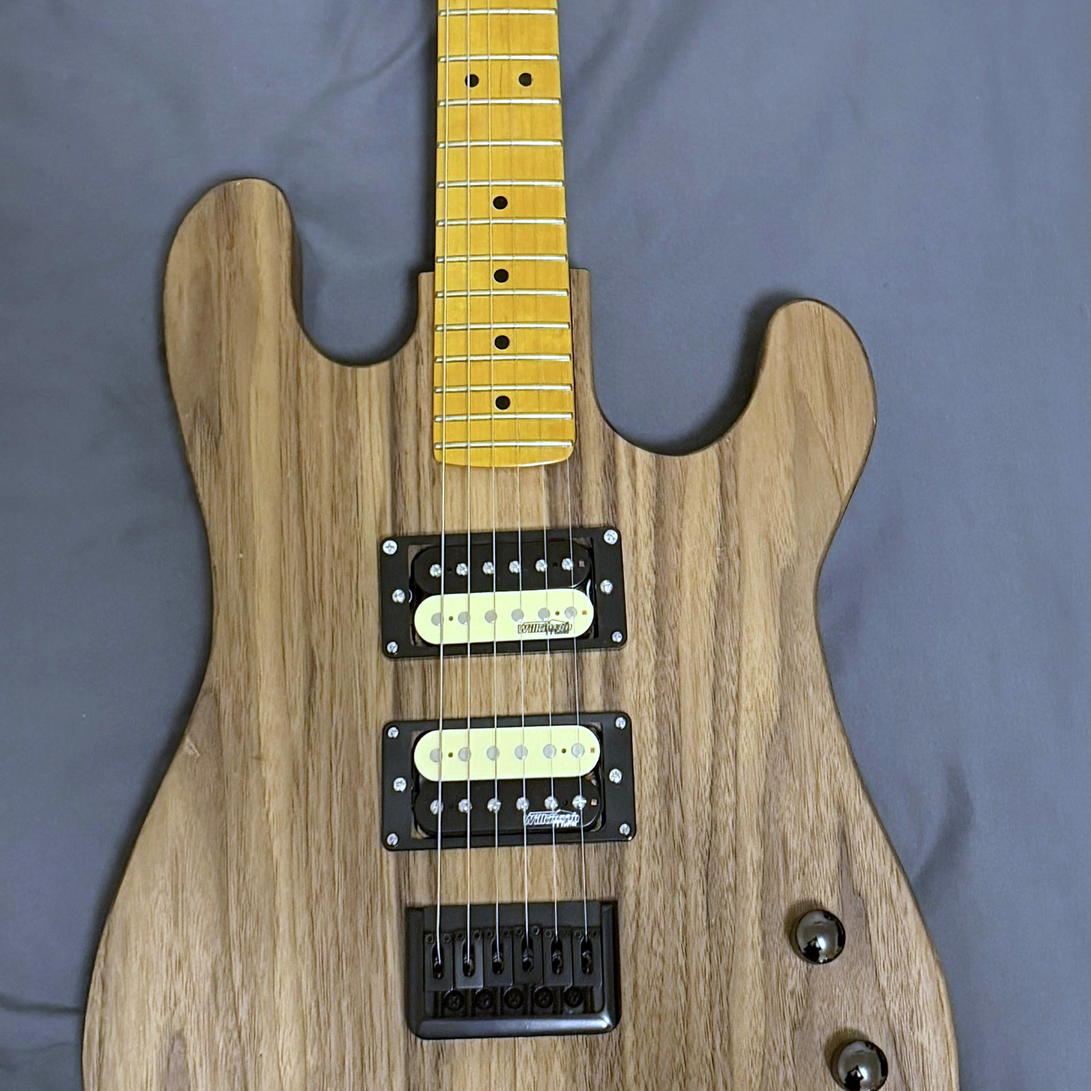
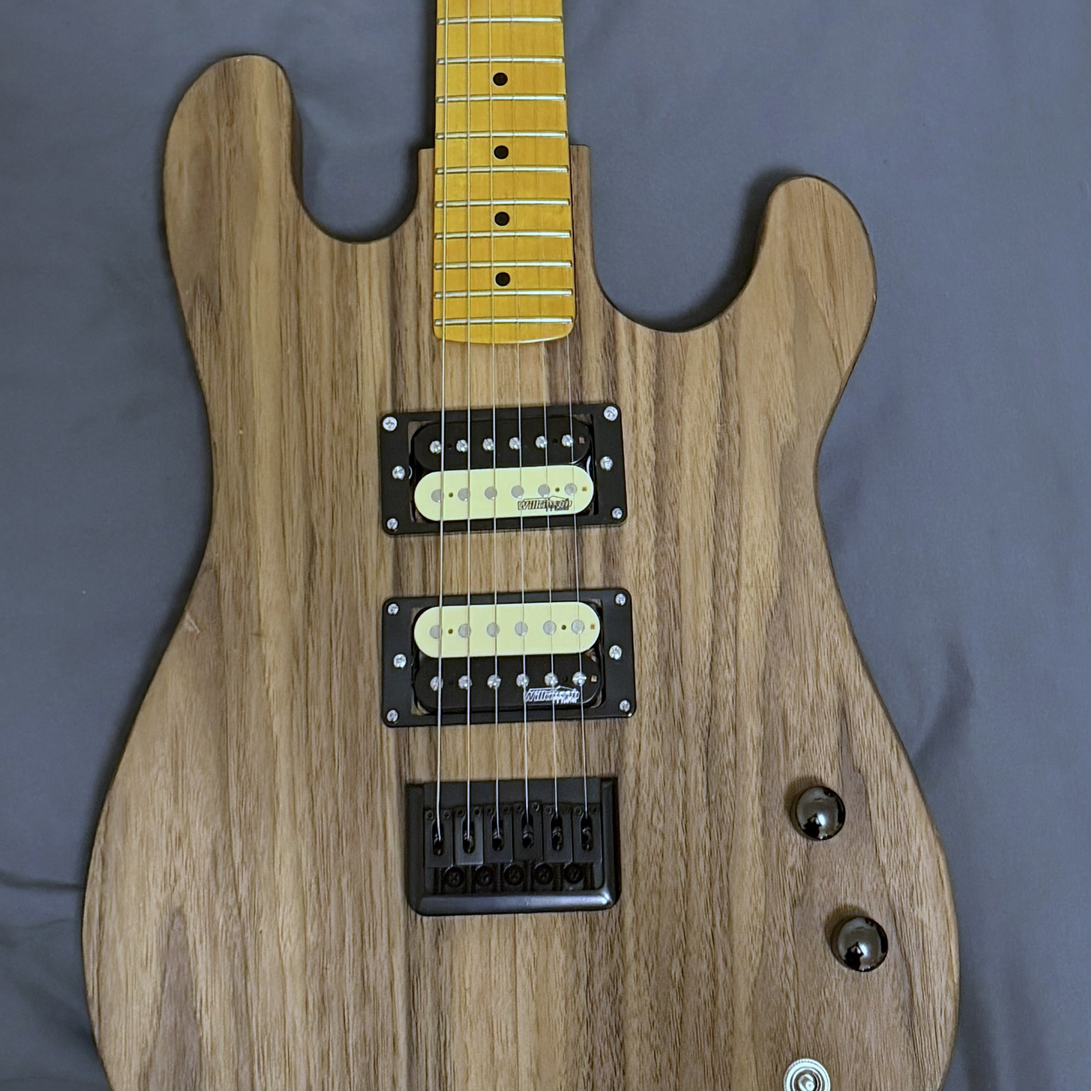
Updating power steering page

diff --git a/projects/motorsports.html b/projects/motorsports.html
@@ -41,57 +41,12 @@
         <h4>September 2025 - May 2026</h4>
         <img src="../portfolio_images/driverless.png" alt="Driverless actuation system" style="width: 250px">
         <br>
-        <img src="../portfolio_images/drawing.png" alt="Mechanical drawing" style="height: 100px">
 
-        <p>This year was the first year in the history of <a class="link" href="https://fsae.mit.edu/">MIT Motorsports</a>, MIT’s competitive Formula SAE (FSAE) team, where the racecar we designed and built from scratch was also designed to drive fully autonomously! As Responsible Engineer for Driverless Mechanisms, I led the design of our driverless power steering system.</p>
-        <p>I began by defining quantitative system requirements, including steering requirements of 12.6 Nm peak torque, 6.3 Nm nominal torque, and 200 deg/s steering rate; maximum mass of 2.04 kg; and other functional requirements. Due to packaging constraints, the full actuation system also needed to fit within 50 mm, or just under 2 inches. This constraint was one major consideration in motor sizing, as I'll describe later.</p>
+        <p>This was the first year in the history of <a class="link" href="https://fsae.mit.edu/">MIT Motorsports</a>, MIT’s competitive Formula SAE (FSAE) team, where the racecar we designed and built from scratch was also designed to drive fully autonomously! As Responsible Engineer for Driverless Mechanisms, I led the design of our driverless power steering system.</p>
+        <p>I began by defining quantitative system requirements, including steering requirements of 12.6 Nm peak torque, 6.3 Nm nominal torque, and 200 deg/s steering rate; maximum mass of 2 kg; and other functional requirements. I derived the steering requirements from telemetry data and measured static torque from our previous racecar, and worked with system interfaces such as EE and autonomous to size the motor to a 60W power limit. Due to packaging constraints, the full actuation system also needed to fit within 50 mm, or just under 2 inches.</p>
 
-        <div class="slideshow">
-
-            <div class="slide-counter">
-                <span class="current-slide">1</span> /
-                <span class="total-slides"></span>
-            </div>
-
-            <button class="prev">&#10094;</button>
-
-            <div class="slide active">
-                <img src="../images/guitar2.jpg">
-                <p class="slide-caption">Making the body of the guitar</p>
-            </div>
-
-            <div class="slide">
-                <img src="../images/guitar.jpg" alt="">
-                <p class="slide-caption">Adding layers of finish (wipe-on polyurethane)</p>
-            </div>
-
-            <div class="slide">
-                <img src="../images/guitar4.JPG" alt="">
-                <p class="slide-caption">Routing the pickups through the front...</p>
-            </div>
-
-            <button class="next">&#10095;</button>
-
-        </div>
-
-
-
-        <p> and evaluated multiple architectures through a formal design review process, designing a column-mounted motor and pulley system packaged within 2 inches and weighing 0.56 kg. Iterated the system through a full design cycle into fabrication, including custom welding jig design and machining.</p>
-        <p>Through this project I learned the rigor of engineering and the importance of research, justification, and communication within engineering, particularly in a team setting. In MIT Motorsports, we follow the full design process with design review and feedback, from setting design requirements to fabrication and testing. It’s through these rigorous design reviews that we receive feedback, communicate and collaborate with other subsystems, and improve on our designs.</p>
-
-        <hr>
-        <p>
-            <b>Skills</b>
-            <ul>
-                <li>Design/CAD: Siemens NX</li>
-                <li>PLM: Siemens Teamcenter</li>
-                <li>Machining and fabrication: manual mill, CNC mill (CAM, conversational programming), lathe, waterjet, 3d printing</li>
-            </ul>
-        </p>
-
-        <p>
-            Throughout the season, I also helped out with a few other tasks on different parts of the car.
-        </p>
+        <img src="../images/power_steering/designrequirements.png" style="width:550px">
+        <p>With my teammate Aleks, I researched and evaluated various power steering architectures on a number of factors including simplicity, risks, packaging, backlash, manufacturing difficulty, mass, and cost. We evaluated mounting locations and drive methods similarly, and ended up deciding on a rotary, column-based power steering design. I used the <a class="link" href="https://www.gates.com/content/dam/documents-library/catalogs/powergrip-gt3-drive-design-manual-en.pdf">Gates Belt Selection Manual</a> to select a timing belt, and did calculations to size the motor, gearbox, and pulley center-to-center distance.</p>
 
         <div class="slideshow">
 
@@ -103,23 +58,40 @@
             <button class="prev">&#10094;</button>
 
             <div class="slide active">
+                <img src="../images/power_steering/psassembly.png">
+                <p class="slide-caption">Power steering assembly</p>
+            </div>
+
+            <div class="slide">
+                <img src="../images/power_steering/weldingasm.PNG">
+                <p class="slide-caption">Welding jig and assembly</p>
+            </div>
+
+            <div class="slide">
                 <img src="../images/power_steering/spacers.PNG">
                 <p class="slide-caption">Steering rack spacers, machined conversationally on CNC mill</p>
             </div>
 
             <div class="slide">
                 <img src="../images/power_steering/turning.jpg" alt="">
-                <p class="slide-caption">Adding layers of finish (wipe-on polyurethane)</p>
-            </div>
-
-            <div class="slide">
-                <img src="../images/guitar4.JPG" alt="">
-                <p class="slide-caption">Routing the pickups through the front...</p>
+                <p class="slide-caption">Push rod inserts for suspension links, turned on lathe</p>
             </div>
 
             <button class="next">&#10095;</button>
 
         </div>
+
+        <p>The power steering system I designed uses a timing belt drive and steel pulleys mounted to the steering rack via a mounting plate, with the column pulley welded to the steering column shaft coupler. The assembly is driven by a Maxon BLDC motor with a 138:1 GR planetary gearbox, packages within 50 mm, weighs 0.56 kg, and meets the torque and speed functional requirements I set. It is now being put on the car, and will be tested for autonomous driving in the coming few weeks!</p>
+        <p>Through this project I learned the rigor of engineering and the importance of research, justification, and communication within engineering, particularly in a team setting. I learned to receive feedback, communicate and collaborate with other subsystems, and improve on my designs, particularly via iterating the system through a formal design review process and the full design cycle.</p>
+
+        <hr>
+        <p>
+            <b>Skills</b>
+            <ul>
+                <li>CAD/PLM: Siemens NX, Siemens Teamcenter</li>
+                <li>Machining and fabrication: manual mill, CNC mill (CAM, conversational programming), lathe, waterjet, 3d printing</li>
+            </ul>
+        </p>
 
     </div>
     <!-- <script src="../index.js" type="text/javascript"></script> -->

diff --git a/projects/guitar.html b/projects/guitar.html
@@ -39,7 +39,7 @@
     <div id="blogs">
         <h1>Electric Guitar</h1>
         <h4>January 2026-May 2026</h4>
-        <img src="../images/guitar_full.jpg" style="height: 450px">
+        <img src="../images/guitar/guitar_full.jpg" style="height: 450px">
         <p>
             In high school I spent many nights learning and playing the guitar, but I wasn't able to bring my guitar to college. So, I decided to build my own!
         </p>
@@ -59,32 +59,32 @@
             <button class="prev" onclick="changeSlide(-1)">&#10094;</button>
 
             <div class="slide active">
-                <img src="../images/guitar2.jpg">
+                <img src="../images/guitar/guitar2.jpg">
                 <p class="slide-caption">Making the body of the guitar</p>
             </div>
 
             <div class="slide">
-                <img src="../images/guitar.jpg" alt="">
+                <img src="../images/guitar/guitar.jpg" alt="">
                 <p class="slide-caption">Adding layers of finish (wipe-on polyurethane)</p>
             </div>
 
             <div class="slide">
-                <img src="../images/guitar4.JPG" alt="">
+                <img src="../images/guitar/guitar4.JPG" alt="">
                 <p class="slide-caption">Routing the pickups through the front...</p>
             </div>
 
             <div class="slide">
-                <img src="../images/guitar45.JPG" alt="">
+                <img src="../images/guitar/guitar45.JPG" alt="">
                 <p class="slide-caption">...to the back</p>
             </div>
 
             <div class="slide">
-                <img src="../images/guitar6.JPG" alt="">
+                <img src="../images/guitar/guitar6.JPG" alt="">
                 <p class="slide-caption">Stringing the guitar</p>
             </div>
 
             <div class="slide">
-                <img src="../images/guitar_full.jpg" alt="">
+                <img src="../images/guitar/guitar_full.jpg" alt="">
                 <p class="slide-caption">Finished guitar!</p>
             </div>
 
@@ -94,7 +94,7 @@
 
         <div class="video-block">
             <video controls style="width: 400px">
-                <source src="../images/whoknowsguitar.mp4" type="video/mp4">
+                <source src="../images/guitar/whoknowsguitar.mp4" type="video/mp4">
                 Your browser does not support the video tag.
             </video>
             <p class="caption">"Who Knows" by Daniel Caesar</p>

diff --git a/portfolio.html b/portfolio.html
@@ -46,6 +46,10 @@
         </p>
         <hr>
         <p>
+            Hi, I'm Kate! I'm studying mechanical engineering with a minor in mathematics, and I'm currently the Suspension Lead for MIT Motorsports. Last summer, I worked on actuators at Boston Dynamics. Currently the areas I'm most drawn to are robotics and biomechatronics/BCI, but I'm also generally excited by cool engineering solutions to important problems.
+
+        </p>
+        <p>
             Skills: <ul>
             <li> <b>CAD/PLM</b>: Siemens NX, Siemens Teamcenter, 3DX CATIA, Arena, Autodesk Fusion 360
             <li> <b>Manufacturing</b>:  CNC mill, manual mill, lathe, waterjet, 3D printing, CAM, conversational programming
@@ -93,7 +97,7 @@
 
             <div class="project-item">
                 <a href="./projects/guitar.html">
-                    <img src="./images/guitar_finished.jpg" alt="Electric guitar project">
+                    <img src="./images/guitar/guitar_finished.jpg" alt="Electric guitar project">
                 </a>
                 <p class="caption"><b>Electric Guitar</b></p>
             </div>

diff --git a/subpage.css b/subpage.css
@@ -62,7 +62,7 @@ li {
 .slideshow {
     position: relative;
     width: 100%;
-    max-width: 350px;
+    max-width: 400px;
     margin: 30px 0; /* 20px auto for centered one */
 }
 
@@ -101,11 +101,11 @@ li {
 }
 
 .prev {
-    left: 10px;
+    left: -40px;
 }
 
 .next {
-    right: 10px;
+    right: -40px;
 }
 
 
